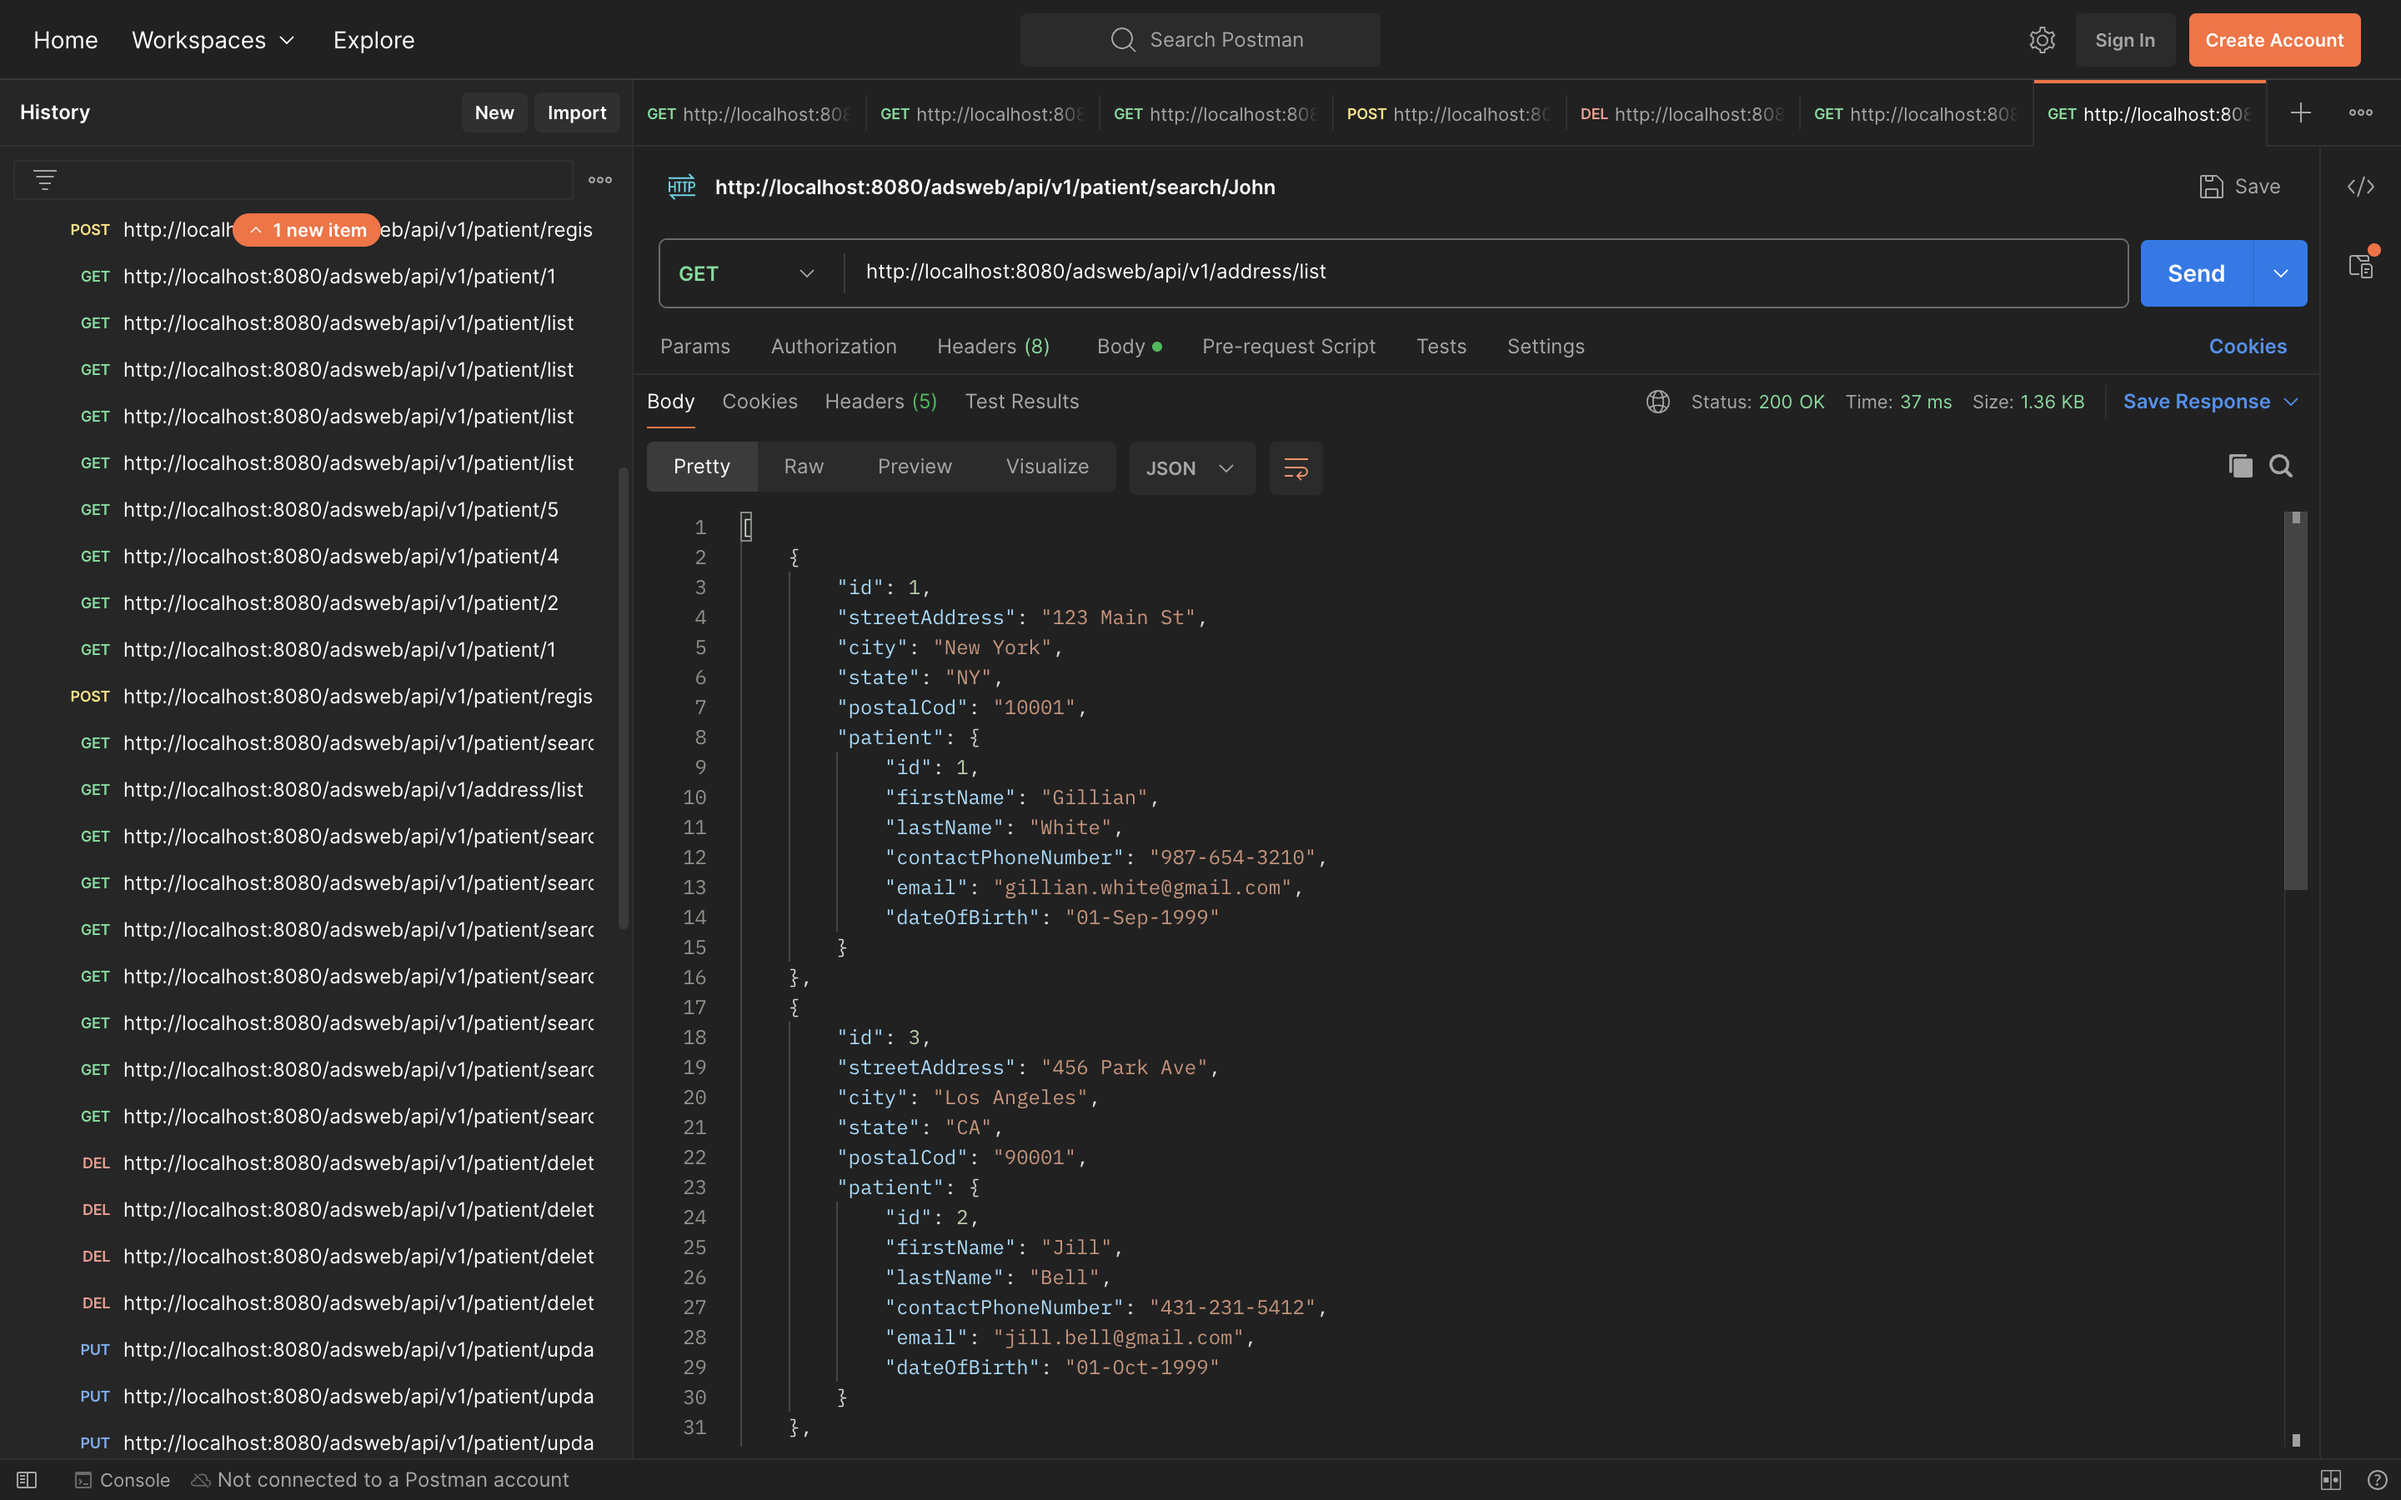
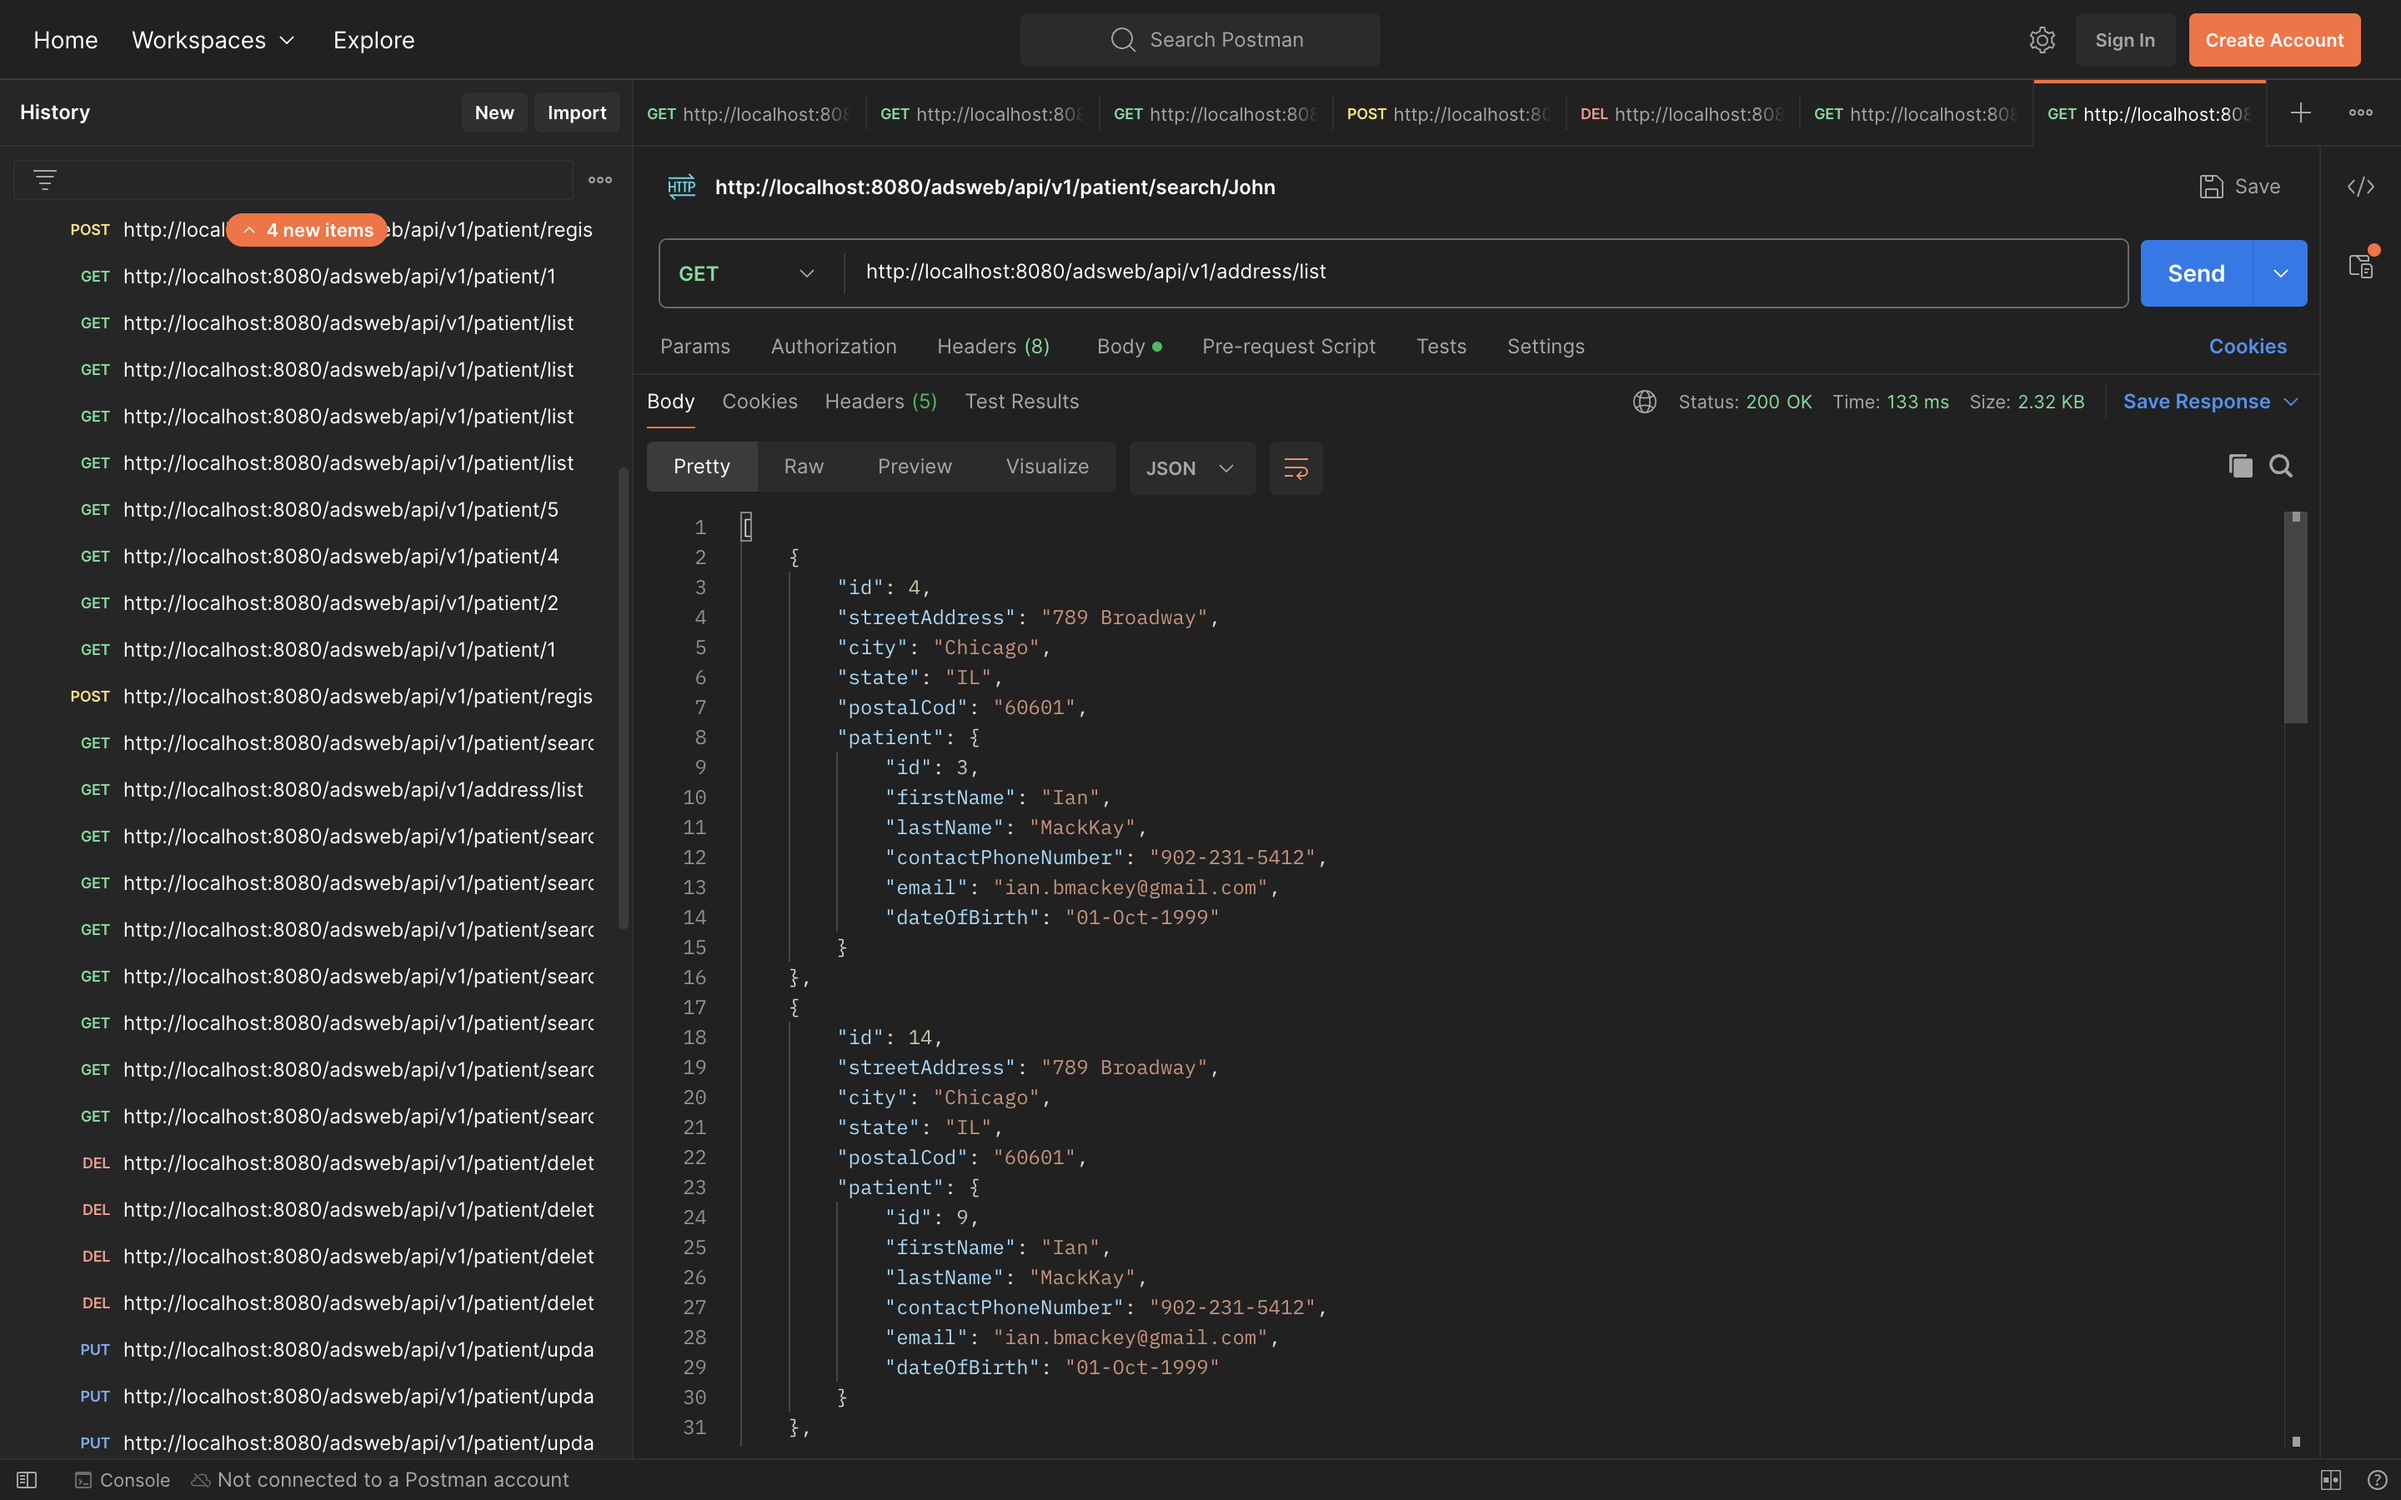
Sorting added

diff --git a/Lab_7/src/main/java/edu/miu/cs489/tsogt/lab_7/service/impl/AddressServiceImpl.java b/Lab_7/src/main/java/edu/miu/cs489/tsogt/lab_7/service/impl/AddressServiceImpl.java
@@ -9,6 +9,7 @@ import edu.miu.cs489.tsogt.lab_7.repository.PatientRepository;
 import edu.miu.cs489.tsogt.lab_7.service.AddressService;
 import org.springframework.stereotype.Service;
 
+import java.util.Comparator;
 import java.util.List;
 import java.util.stream.Collectors;
 
@@ -47,6 +48,7 @@ public class AddressServiceImpl implements AddressService {
                                 patient.getDateOfBirth()
                         )
                 ))
+                .sorted(Comparator.comparing(AddressResponse::city))
                 .collect(Collectors.toList());
     }
 }
